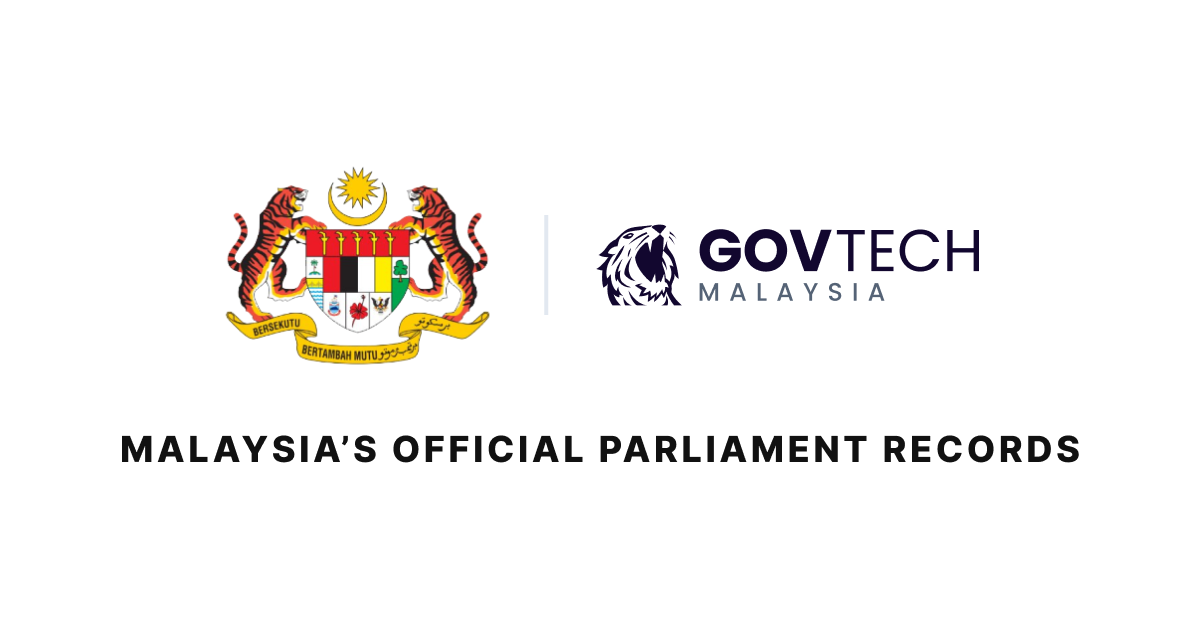
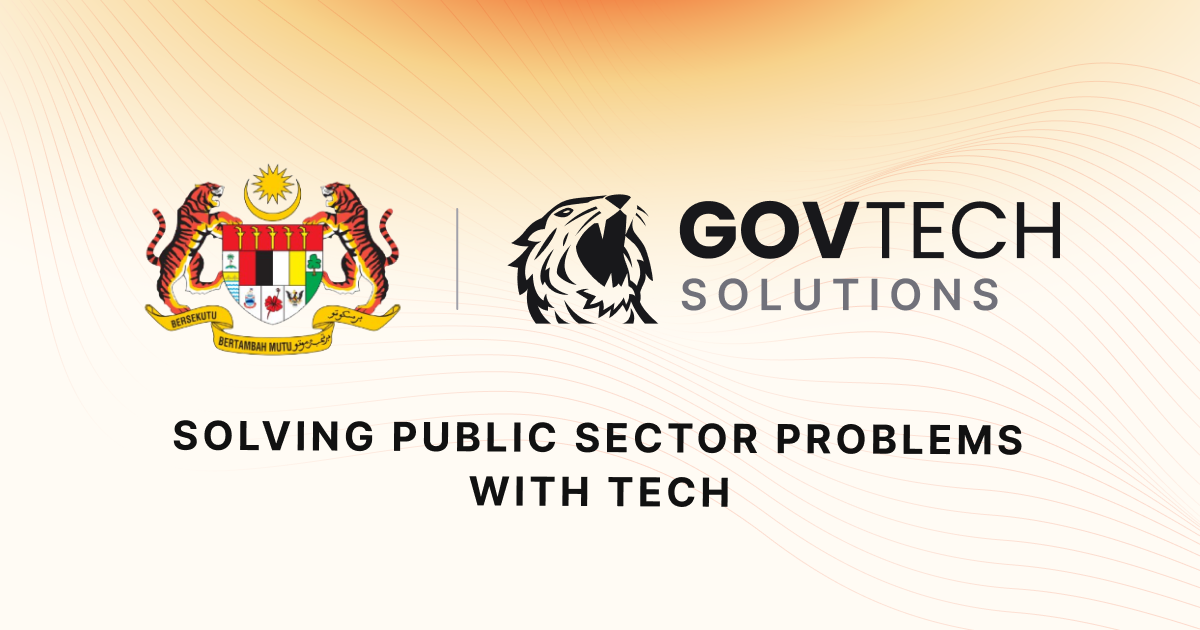
add metadata and og images

diff --git a/src/pages/our-work.tsx b/src/pages/our-work.tsx
@@ -7,11 +7,13 @@ import Section from "@/components/Section";
 import ProjectCard from "@/components/SiteComponents/project-card";
 import { LAUNCHED_PROJECTS, UPCOMING_PROJECTS } from "@/resources/projects";
 import { useTranslation } from "@/lib/hooks/useTranslation";
+import Metadata from "@/components/Metadata";
 
 const OurWork: Page = () => {
   const { t } = useTranslation(["our-work"]);
   return (
     <>
+      <Metadata title={t("hero.title")} />
       <Hero title={t("hero.title")} description={t("hero.description")} />
       <Container>
         <Section className="max-w-[800px] mx-auto py-16">

diff --git a/src/pages/join-us/[[...job]].tsx b/src/pages/join-us/[[...job]].tsx
@@ -15,6 +15,7 @@ import { JOB_OPENINGS } from "@/resources/job-opening";
 import { clx } from "@/lib/helper";
 import Button from "@/components/Button";
 import { useEffect, useState } from "react";
+import Metadata from "@/components/Metadata";
 
 const JOIN_ROUTE = "/join-us";
 
@@ -93,6 +94,7 @@ const JoinUs: Page = ({
   ];
   return (
     <>
+      <Metadata title={t("hero.title")} />
       <Hero title={t("hero.title")} description={t("hero.description")} />
       <Container>
         <Section className="max-w-[800px] mx-auto py-16">

diff --git a/next.config.js b/next.config.js
@@ -8,7 +8,8 @@ const nextConfig = {
     APP_NAME: "tech.gov.my",
     META_AUTHOR: "Government of Malaysia",
     META_THEME: "#13293D",
-    META_KEYWORDS: "official website for govtech nucleus unit",
+    META_KEYWORDS:
+      "official website for govtech nucleus unit open data malaysian government mampu govtech solutions",
     META_DOMAIN: "tech.gov.my",
     META_URL: process.env.NEXT_PUBLIC_APP_URL,
     META_IMAGE: `${process.env.NEXT_PUBLIC_APP_URL}/static/images/og_{{lang}}.png`,

diff --git a/src/pages/index.tsx b/src/pages/index.tsx
@@ -7,11 +7,13 @@ import Section from "@/components/Section";
 import Image from "next/image";
 import { useTranslation } from "@/lib/hooks/useTranslation";
 import Typewriter from "typewriter-effect";
+import Metadata from "@/components/Metadata";
 
 const Home: Page = () => {
   const { t } = useTranslation(["home"]);
   return (
     <>
+      <Metadata title={t("common:site.name")} />
       <Hero
         title={
           <div>
